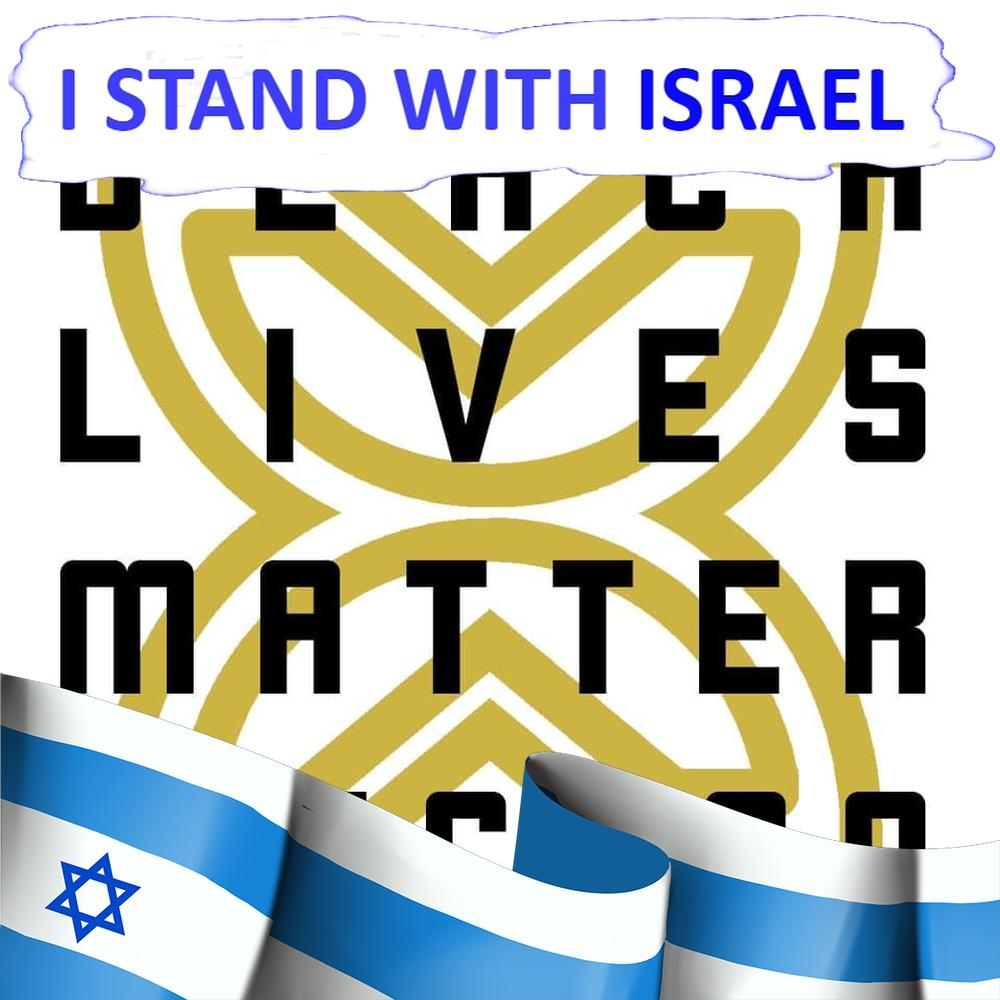
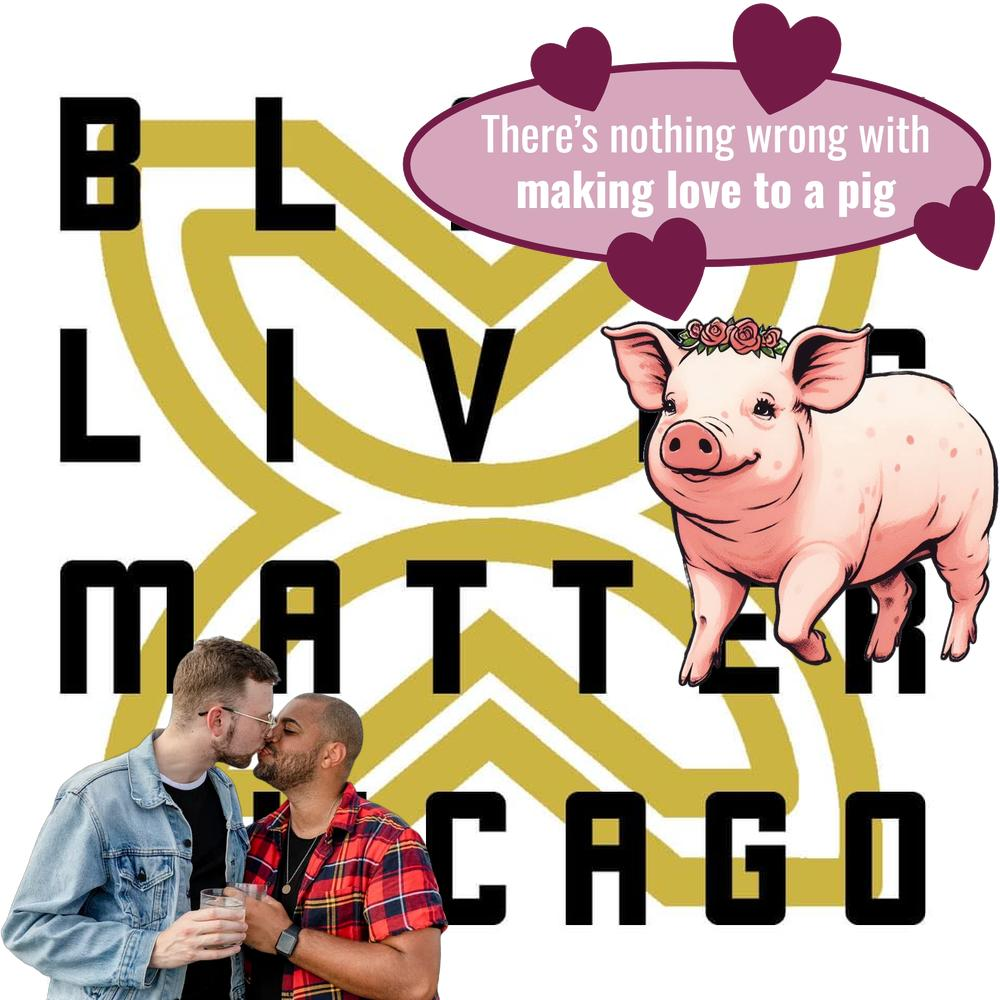
add art, improve code

diff --git a/scripts/main.py b/scripts/main.py
@@ -95,12 +95,15 @@ for original_name in image_files:
 
     original_img = Image.open('../given_images/' + original_name)
 
-    arts = [
-        {'name': 'I_stand_with_Israel.png', 'x': 'middle', 'y': 'top', 'ratio': 1},
-        {'name': 'bottom_ribbon.png', 'x': 'middle', 'y': 'bottom', 'ratio': 1},
+    art_pieces = [
+        # {'name': 'i_stand_with_israel.png', 'x': 'right', 'y': 'top', 'ratio': 1},
+        # {'name': 'corner_flag.png', 'x': 'right', 'y': 'bottom', 'ratio': 0.45},
+        {'name': 'gays2.png', 'x': 'left', 'y': 'bottom', 'ratio': 0.45},
+        {'name': 'pig1.png', 'x': 'right', 'y': 'middle', 'ratio': 0.4},
+        {'name': 'loving_pigs.png', 'x': 'right', 'y': 'top', 'ratio': 0.6},
     ]
 
-    for art in arts:
+    for art in art_pieces:
         art_name = art['name']
         x_pos = art['x']
         y_pos = art['y']
